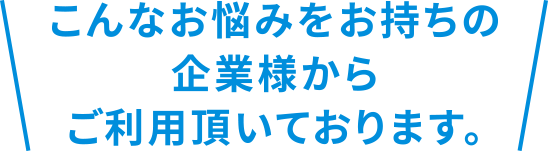
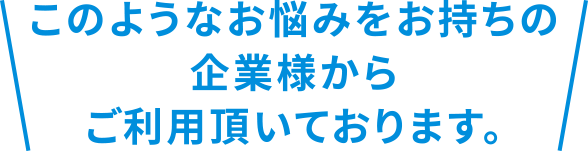
revisions update

diff --git a/inc/form.php b/inc/form.php
@@ -916,6 +916,9 @@
             <div class="b0_l50" style="width: 100%; bottom: -10vw;">
               <img class="width_100 undrag" src="../img/banner/banner_img_4.png" alt="">
             </div>
+            <div class="b0_l50" style="width: 100%; bottom: -10vw;">
+              <p class="noto_regular font_65">調査概要：採用代行会社10社を対象にしたサイトイメージ調査より。<br>調査実施：株式会社ショッパーズアイ調べ（2021年2月時点）</p>
+            </div>
           </div>
         </div>
       </div>
@@ -933,7 +936,9 @@
           <div class="wrapper_100">
             <img class="width_100 undrag" src="../img/banner/banner_img_4-sp.png" alt="">
           </div>
-
+        </div>
+        <div class="b0_l50" style="width: 100%; bottom: -41vw;">
+          <p class="noto_regular font_65">調査概要：採用代行会社10社を対象にしたサイトイメージ調査より。<br>調査実施：株式会社ショッパーズアイ調べ（2021年2月時点）</p>
         </div>
       </div>
     </section>
@@ -950,7 +955,7 @@
         <div class="space_05"></div>
         <div class="wrapper_100" style="background: #ecf8ff">
           <div class="space_2"></div>
-          <div class="wrapper_30">
+          <div class="wrapper_100">
             <p class="noto_medium font_100">
               まずは採用に関するお悩みを気軽にご相談ください。
             </p>
@@ -966,7 +971,7 @@
       </div>
       <div class="view_tabsp">
         <div class="space_4"></div>
-        <div class="space_5"></div>
+        <div class="space_10"></div>
         <div class="space_5"></div>
         <div class="space_5"></div>
         <div class="wrapper_90">
@@ -1104,7 +1109,7 @@
               <p class="noto_bold font_150 txt_lpad_2 txt_tpad_1 txt_left">
                 採用代行支援<span class="noto_bold font_150" style="color: #008EDC; display: inline;">実績10,000社／<br>年間800社</span>。<span class="noto_bold font_150" style="color: #008EDC; display: inline;">リピート率95％</span>
               </p>
-              <p class="noto_medium font_75 txt_left txt_lpad_2 txt_tpad_1 txt_bpad_2 txt_rpad_2 line_h_200">人材業界ならではの企業理解の深さで、高い専門性でリピート率は95%以上。10,000社の採用ノウハウを活かし、最適な業務の切り分けから代行、効果検証にて採用成功まで伴走いたします。</p>
+              <p class="noto_medium font_75 txt_left txt_lpad_2 txt_tpad_1 txt_bpad_2 txt_rpad_2 line_h_200">人材業界ならではの企業理解の深さと、高い専門性でリピート率は95%以上。10,000社の採用ノウハウを活かし、最適な業務の切り分けから代行、効果検証など採用成功まで伴走いたします。</p>
             </div>
             <div class="width_3"></div>
             <div class="width_28">
@@ -1121,7 +1126,7 @@
               <p class="noto_bold font_800 txt_left txt_lpad_2" style="color: #008EDC; margin-top: -3.5vw; line-height: 1;">02</p>
               <p class="noto_bold font_150 txt_lpad_2 txt_tpad_1 txt_left"><span class="noto_bold" style="color: #008DDC;">採用戦略</span>と<span class="noto_bold" style="color:#008ddc">運用フロー</span>の<br>
                 構築を徹底サポート</p>
-              <p class="noto_medium font_75 txt_left txt_lpad_2 txt_tpad_1 txt_bpad_2 txt_rpad_2 line_h_200">新卒・中途・アルバイトにあわせた幅広いサービスが提供可能。クライアントの課題に合わせたワンストップ支援。また、さまざまな採用手法の中から企業の課題に合わせて最も効果的な採用手法戦略・選定。最適な採用手法選定×応募者を取り逃がさない後工程支援で、成功まで伴走。</p>
+              <p class="noto_medium font_75 txt_left txt_lpad_2 txt_tpad_1 txt_bpad_2 txt_rpad_2 line_h_200">新卒・中途・アルバイトにあわせた幅広いサービスが提供可能。クライアントの課題に合わせたワンストップ支援。また、さまざまな採用手法の中から企業の課題に合わせて最も効果的な採用手法戦略・選定。最適な採用手法選定×応募者を取り逃がさない後工程支援で、後工程支援が強みです。</p>
             </div>
           </div>
           <div class="space_5"></div>
@@ -1148,7 +1153,7 @@
             <p class="noto_bold txt_bpad_4" style="color: #008DDC; font-size: 20vw; line-height: 1;">01</p>
             <p class="noto_bold font_125">採用代行支援<span class="noto_bold" style="color: #008DDC;">実績10,000社</span>／<br><span class="noto_bold" style="color: #008DDC;">年間800社</span>。<span class="noto_bold" style="color:#008ddc">リピート率95％</span></p>
             <div class="space_2"></div>
-            <p class="noto_medium font_75 line_h_200">人材業界ならではの企業理解の深さで、高い専門性でリピート率は95%以上。10,000社の採用ノウハウを活かし、最適な業務の切り分けから代行、効果検証にて採用成功まで伴走いたします。</p>
+            <p class="noto_medium font_75 line_h_200">人材業界ならではの企業理解の深さと、高い専門性で高い専門性でリピート率は95%以上。10,000社の採用ノウハウを活かし、最適な業務の切り分けから代行、効果検証など採用成功まで伴走いたします。</p>
             <div class="t0_l50 width_100" style="text-align: right; left: 30%; top: -12vw;">
               <img class="width_32 undrag" src="../img/sect_3/sect_3_man-1.png" alt="">
             </div>
@@ -1158,7 +1163,7 @@
             <p class="noto_bold txt_right txt_bpad_4" style="color: #008DDC; font-size: 20vw; line-height: 1;">02</p>
             <p class="noto_bold font_125"><span class="noto_bold" style="color: #008DDC;">採用戦略</span>と<br><span class="noto_bold" style="color: #008DDC;">運用フロー</span>の構築を徹底サポート</p>
             <div class="space_2"></div>
-            <p class="noto_medium font_75 line_h_200">新卒・中途・アルバイトにあわせた幅広いサービスが提供可能。クライアントの課題に合わせたワンストップ支援。また、さまざまな採用手法の中から企業の課題に合わせて最も効果的な採用手法戦略・選定。最適な採用手法選定×応募者を取り逃がさない後工程支援で、成功まで伴走。</p>
+            <p class="noto_medium font_75 line_h_200">新卒・中途・アルバイトにあわせた幅広いサービスが提供可能。クライアントの課題に合わせたワンストップ支援。また、さまざまな採用手法の中から企業の課題に合わせて最も効果的な採用手法戦略・選定。最適な採用手法選定×応募者を取り逃がさない後工程支援で、後工程支援が強みです。</p>
             <div class="t0_l50 width_100" style="top: -3vw; left: 55%;">
               <img class="width_62 undrag" src="../img/sect_3/sect_3_man-2.png" alt="">
             </div>
@@ -1187,7 +1192,7 @@
           </div>
           <div class="space_3"></div>
           <div class="wrapper_85">
-            <a class="noto_bold block box_radius_15 line_h_250 font_125 white" style="background: #008edc;">採用活動支援サービスの主な内容</a>
+            <a class="noto_bold block box_radius_15 line_h_250 font_125 white" style="background: #008edc;">採用代行サービスの主な内容</a>
           </div>
           <div class="space_3"></div>
           <div class="wrapper_100">
@@ -1350,7 +1355,7 @@
           <img class="width_76 undrag" src="../img/sect_4/sect_4_ttl-sp.png" alt="">
           <div class="space_1"></div>
           <div class="wrapper_100">
-            <a class="noto_bold width_100 block box_radius_15 white font_125 block line_h_150 txt_tpad_2 txt_bpad_2" style="background: #008ddc; letter-spacing: 0.1em;">採用活動支援サービスの<br>主な内容</a>
+            <a class="noto_bold width_100 block box_radius_15 white font_125 block line_h_150 txt_tpad_2 txt_bpad_2" style="background: #008ddc; letter-spacing: 0.1em;">採用代行サービスの<br>主な内容</a>
           </div>
           <div class="space_5"></div>
           <!-- ITEM 1 -->
@@ -1486,14 +1491,14 @@
                 <div class="box_radius_10 txt_tpad_2 txt_bpad_2 txt_lpad_2 txt_rpad_2 txt_left" style="box-shadow: 3px 3px 10px 2px rgb(0 0 0 / 20%);">
                   <img class="width_83 undrag" src="../img/sect_5/sect_5_ttl-3.png" alt="">
                   <div class="space_1"></div>
-                  <p class="noto_medium font_65 line_h_200" style="padding-bottom: 0.2vw;">ダイレクトリクルーティング媒体を使用し、<span class="noto_medium font_65 line_h_200" style="color: #ff9800;">求職者に響く、個別カスタマイズを加えたスカウト</span>をお送り致します。スカウト応募後には、すぐに応募受付を行う事で、応募取りこぼしを致しません。貴社に合った、利用媒体の選定から携わる事も可能です。</p>
+                  <p class="noto_medium font_65 line_h_200" style="padding-bottom: 0.2vw;">ダイレクトリクルーティング媒体を使用し、<span class="noto_medium font_65 line_h_200" style="color: #ff9800;">求職者に響く、個別カスタマイズを加えたスカウト</span>をお送り致します。スカウト応募後には、すぐに応募受付を行う事で、応募の取りこぼしを致しません。貴社に合った、利用媒体の選定から携わる事も可能です。</p>
                   <div class="space_2"></div>
                   <div class="wrapper_90">
                     <img class="width_100 undrag" src="../img/sect_5/sect_5_work-3.png" alt="">
                   </div>
                   <div class="space_2"></div>
                   <ul>
-                    <li class="noto_regular font_75 line_h_200">■適したダイレクトリクルーティング媒体の選定</li>
+                    <li class="noto_regular font_75 line_h_200">■最適なダイレクトリクルーティング媒体の選定</li>
                     <li class="noto_regular font_75 line_h_200">■スカウト文面やメールテンプレート等の設定</li>
                     <li class="noto_regular font_75 line_h_200">■スカウトの個別カスタマイズ、配信</li>
                     <li class="noto_regular font_75 line_h_200">■求人票の更新</li>
@@ -1514,7 +1519,7 @@
                   </div>
                   <div class="space_2"></div>
                   <ul>
-                    <li class="noto_regular font_75 line_h_200">■内定の旨ご連絡</li>
+                    <li class="noto_regular font_75 line_h_200">■内定通知</li>
                     <li class="noto_regular font_75 line_h_200">■入社意思確認の回収、追い掛け連絡</li>
                     <li class="noto_regular font_75 line_h_200">■入社前事前確認事項の回収</li>
                     <li class="noto_regular font_75 line_h_200">■入社書類の準備</li>
@@ -1585,14 +1590,14 @@
           <div class="box_radius_10 txt_tpad_2 txt_bpad_2 txt_lpad_2 txt_rpad_2 txt_left" style="box-shadow: 5px 5px 20px 5px rgb(0 0 0 / 20%);">
             <img class="width_80 undrag" src="../img/sect_5/sect_5_ttl-3.png" alt="">
             <div class="space_1"></div>
-            <p class="noto_medium font_65 line_h_200">ダイレクトリクルーティング媒体を使用し、<span class="noto_medium font_65 line_h_200" style="color: #ff9800;">求職者に響く、個別カスタマイズを加えたスカウト</span>をお送り致します。スカウト応募後には、すぐに応募受付を行う事で、応募取りこぼしを致しません。貴社に合った、利用媒体の選定から携わる事も可能です。</p>
+            <p class="noto_medium font_65 line_h_200">ダイレクトリクルーティング媒体を使用し、<span class="noto_medium font_65 line_h_200" style="color: #ff9800;">求職者に響く、個別カスタマイズを加えたスカウト</span>をお送り致します。スカウト応募後には、すぐに応募受付を行う事で、応募の取りこぼしを致しません。貴社に合った、利用媒体の選定から携わる事も可能です。</p>
             <div class="space_2"></div>
             <div class="wrapper_90">
               <img class="width_100 undrag" src="../img/sect_5/sect_5_work-3.png" alt="">
             </div>
             <div class="space_2"></div>
             <ul>
-              <li class="noto_regular font_75 line_h_200">■適したダイレクトリクルーティング媒体の選定</li>
+              <li class="noto_regular font_75 line_h_200">■最適なダイレクトリクルーティング媒体の選定</li>
               <li class="noto_regular font_75 line_h_200">■スカウト文面やメールテンプレート等の設定</li>
               <li class="noto_regular font_75 line_h_200">■スカウトの個別カスタマイズ、配信</li>
               <li class="noto_regular font_75 line_h_200">■求人票の更新</li>
@@ -1612,7 +1617,7 @@
             </div>
             <div class="space_2"></div>
             <ul>
-              <li class="noto_regular font_75 line_h_200">■内定の旨ご連絡</li>
+              <li class="noto_regular font_75 line_h_200">■内定通知</li>
               <li class="noto_regular font_75 line_h_200">■入社意思確認の回収、追い掛け連絡</li>
               <li class="noto_regular font_75 line_h_200">■入社前事前確認事項の回収</li>
               <li class="noto_regular font_75 line_h_200">■入社書類の準備</li>
@@ -2047,29 +2052,6 @@
                   <div class="space_1"></div>
                   <p class="white noto_regular font_60 txt_justify" style="line-height: 22px;">
                     採用代行（RPO）のサービスもさることながら、定期ミーティングでの振り返りのクオリティや、採用にかけるコストを抑えつつも採用率を向上させるための改善提案、分析力にも長けており、正直驚いています。数値もまさかここまで改善されるとは思っていなかったので、本当に良かったなと思っています。
-                  </p>
-                  <div class="space_1"></div>
-                </div>
-              </div>
-            </li>
-            <!-- slider 3 -->
-            <li>
-              <div class="bg_img">
-                <img src="../img/sect_7/slider-img01.png" alt="" class="undrag width_100" />
-                <div class="txt_left txt_lpad_1 txt_rpad_1" style="background-color: #008edc; height: 100%;">
-                  <div class="space_1"></div>
-                  <p class="white noto_medium line_h_200" style="font-size: 1.1vw;">
-                    二人三脚で原稿作成をおこなって<br>
-                    いただいたこともあり、応募が当初想定の<br>
-                    100倍近く来たんです（笑）
-                  </p>
-                  <div class="space_1"></div>
-                  <div class="space_05"></div>
-                  <p class="white noto_medium font_75 txt_bpad_05" style="border-bottom: 1px solid #fff;">株式会社ベイス様</p>
-                  <div class="space_05"></div>
-                  <p class="white noto_regular font_60 txt_justify" style="line-height: 22px;">
-                    「法人営業」や「ルートセールス」などの仕事内容をあらわすものが中々実態に当てはまらず、「いかに求職者とのミスマッチを無くし、かつ魅力を伝え応募してもらうか」が非常に難しい状態でした。これをゼロベースから一緒に考えていただけたのは、非常にありがたかったです。<br>
-                    結果的に、「当初想定の約6割の予算で、5名採用目標に対して6名の採用」と、大成功でした。また、実はものすごく想定外だったのが、二人三脚で原稿作成をおこなっていただいたこともあり、応募が当初想定の100倍近く来たんです（笑）。しかし、応募者へのメールや電話の対応もネオキャリアのほうでしっかりと代行しておこなってもらったので、歩留まりを下げることなく採用が成功できたのだと思います。
                   </p>
                   <div class="space_1"></div>
                 </div>
